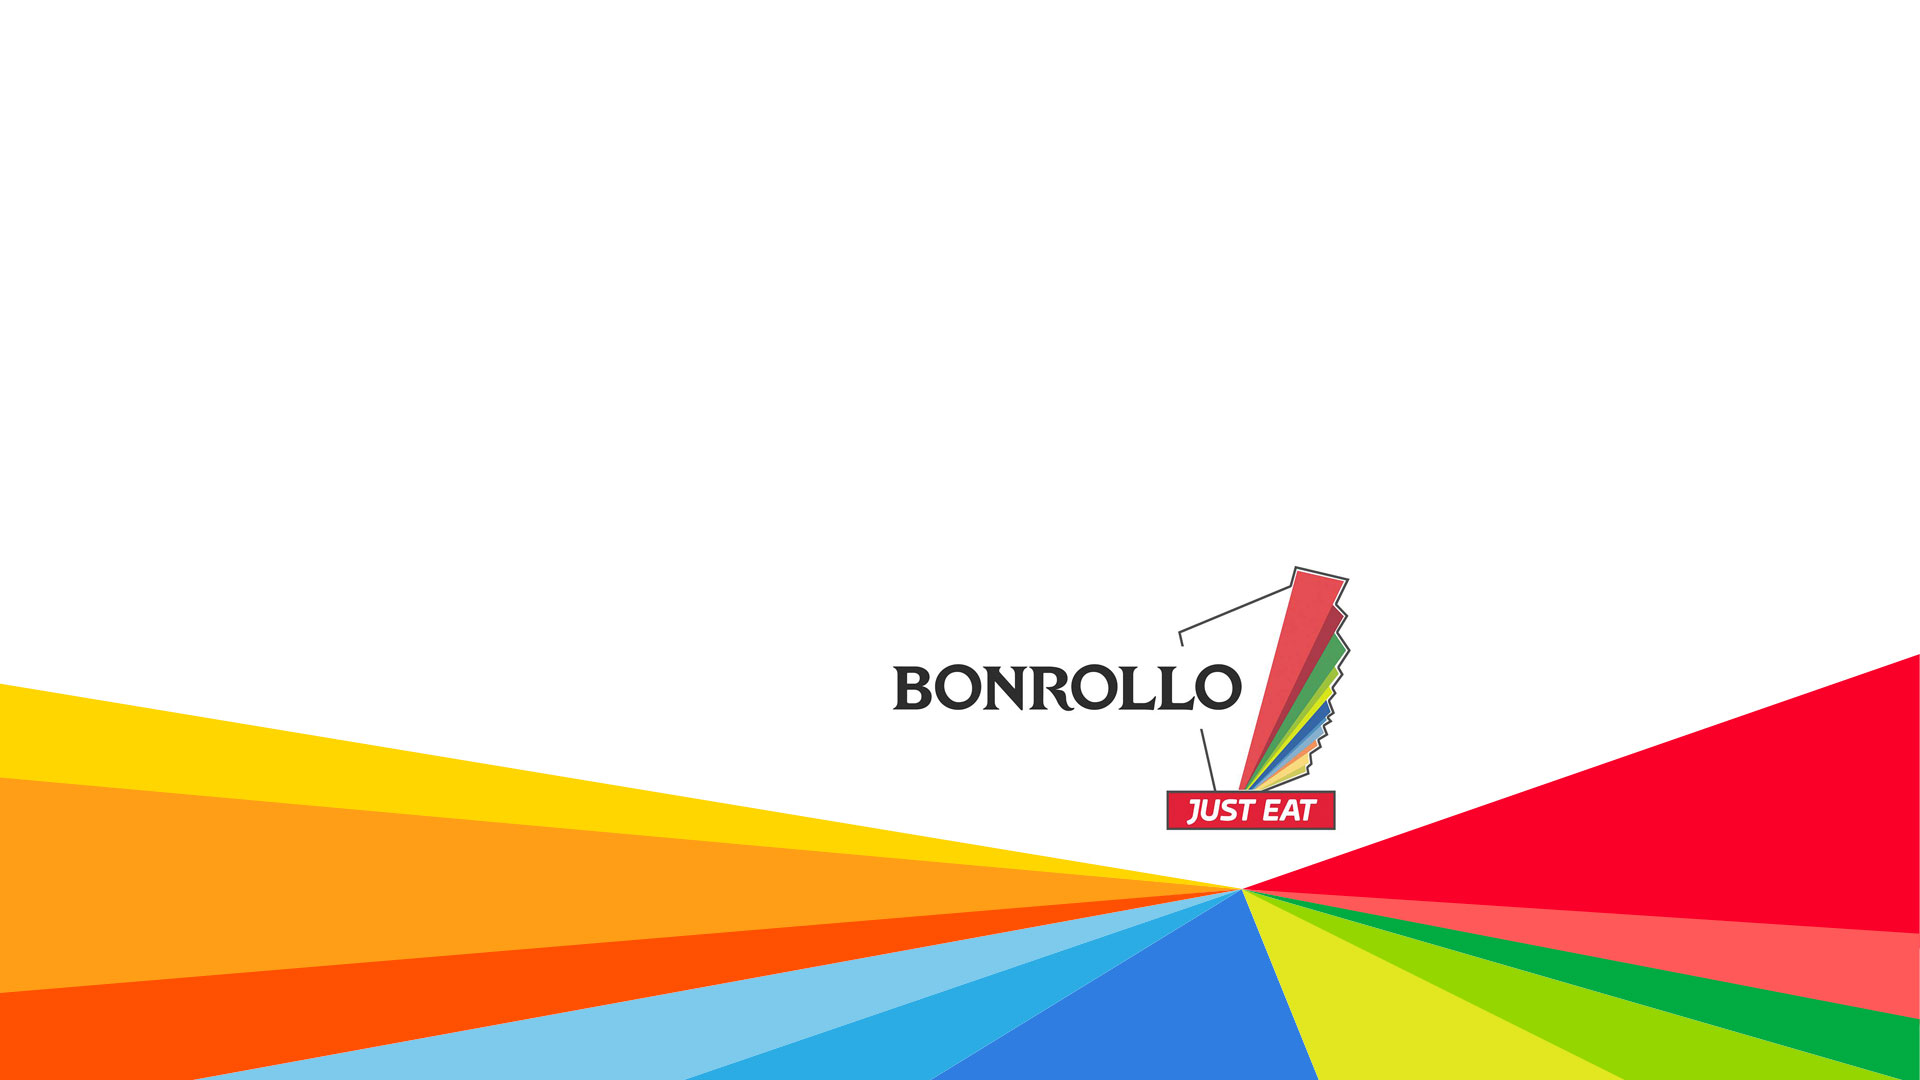
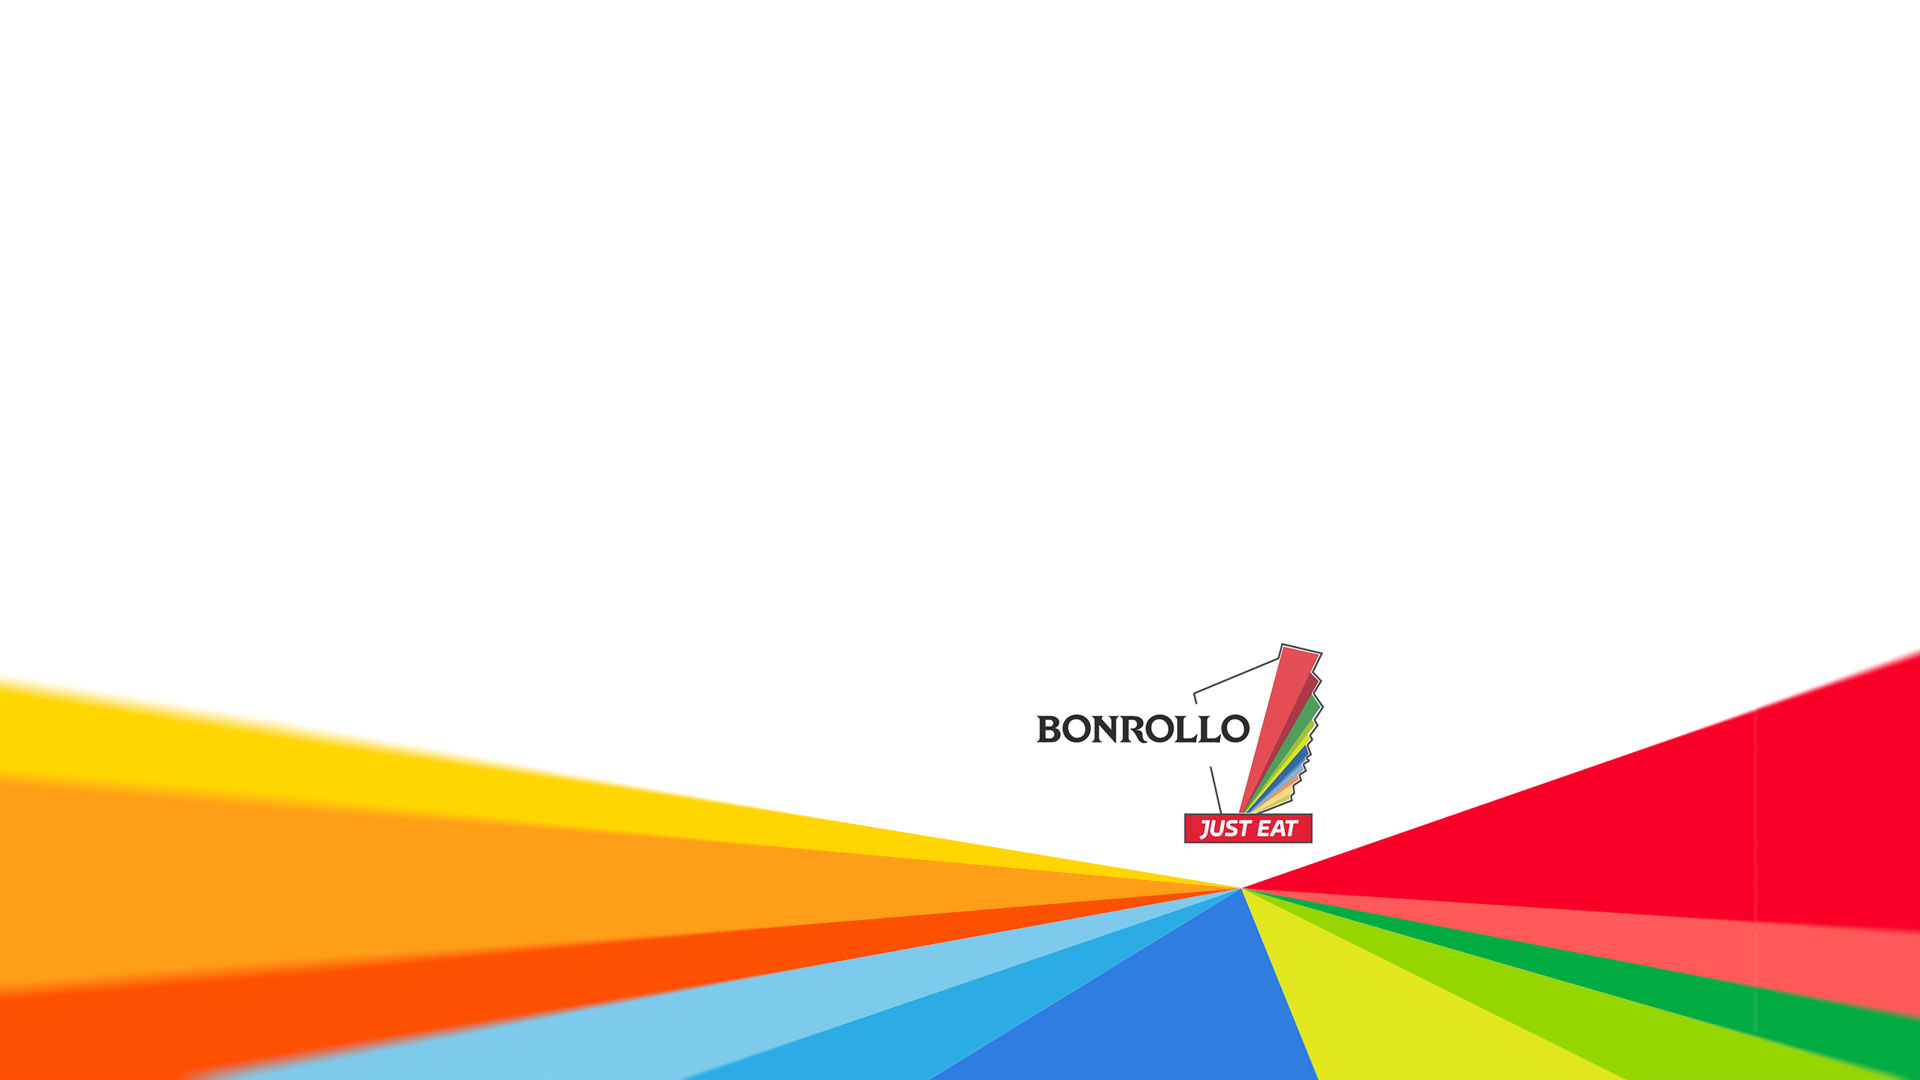
a

diff --git a/hipertextos/styles/adding.css b/hipertextos/styles/adding.css
@@ -47,16 +47,12 @@ hr.lines {border-bottom:thin solid var(--color-grey);}
 #layout em a:hover, #layout em a:active, #layout em a:focus {background-color:var(--color-white);color:var(--color-black);}
 .cover-front {
 	background-position: top center;
-	background-attachment: fixed;
-	background-size: cover;
-	background-repeat: no-repeat;
-	border:none;
-	color: #000;
-	letter-spacing: .2em;
-	overflow: hidden;
-	text-align: center;
-	padding-top: 0;
+	background-attachment: fixed;display:block;
+	background-size:1920px;width:1920px;height:420px;	background-repeat: no-repeat;
+	border:none;color: #000;letter-spacing: .2em;
+	padding-top: 60px;text-align:right;
 }
+.cover-front h2, .cover-front h3 {margin:0px;}
 
 /* Buttons hexagons */
 #icons em a {background-color:transparent ;background-image: url(/hipertextos/brand/hexagon.png);background-repeat:no-repeat  ;background-size:100px;width:100px;height:100px;border:none!important;
